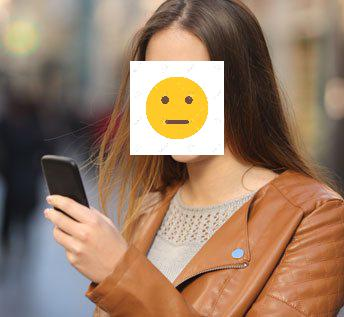
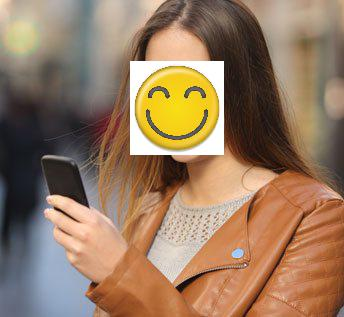
update

Changed region(s): [[0.3779, 0.1987, 0.6395, 0.4826]]

diff --git a/detector.py b/detector.py
@@ -16,10 +16,16 @@ STATUS = {
 
 class Detector(object):
     def __init__(self, device="cpu"):
-        # download the weights model when first time
+        # location: ~/.torch/models/*.
         self.face = face_alignment.FaceAlignment(face_alignment.LandmarksType._2D, flip_input=False, device=device)
 
     def replacement(self, input_image, out_image, status):
+        """
+        :param input_image: the path of input image
+        :param out_image: the path of output image
+        :param status: int, the status of emotion
+        :return:
+        """
         if status not in STATUS:
             return False, "status is valid"
         try:
@@ -32,7 +38,7 @@ class Detector(object):
             input_image_rev = Image.open(input_image)
             emotion_image_rev = Image.open(emotion_image)
             wc, hc = emotion_image_rev.size
-            if wc != hc:
+            if wc != hc:  # emoji must be square
                 raise Exception(emotion_image + " must have the same width and height")
 
             zoom = box_width / (wc + 0.0)
@@ -50,7 +56,7 @@ if __name__ == "__main__":
     import random
     obj = Detector()
 
-    for img in ["8.jpg"]:
+    for img in ["1.jpg", "2.jpg", "3.jpg", "4.jpg", "5.jpg", "6.jpg", "7.jpg", "8.jpg"]:
         input_image = join(BASE_PATH, "assets", img)
         out_image = join(BASE_PATH, "assets", "out_" + img)
         status, msg = obj.replacement(input_image, out_image, random.randint(1, 3))

diff --git a/README.md b/README.md
@@ -14,7 +14,7 @@ conda install PIL --name=conda_envs
 python detector.py
 ```
 
-## Data-set
+## Data-set(~230,000 images)
 LS3D-W is a large-scale 3D face alignment dataset constructed by annotating the images from AFLW[2], 300VW[3], 300W[4] and FDDB[5] in a consistent manner with 68 points using the automatic method described in [1]. To gain access to the dataset please enter your email address in the following form. You will shortly receive an email at the specified address containing the download link
 ``` 
 References: 
